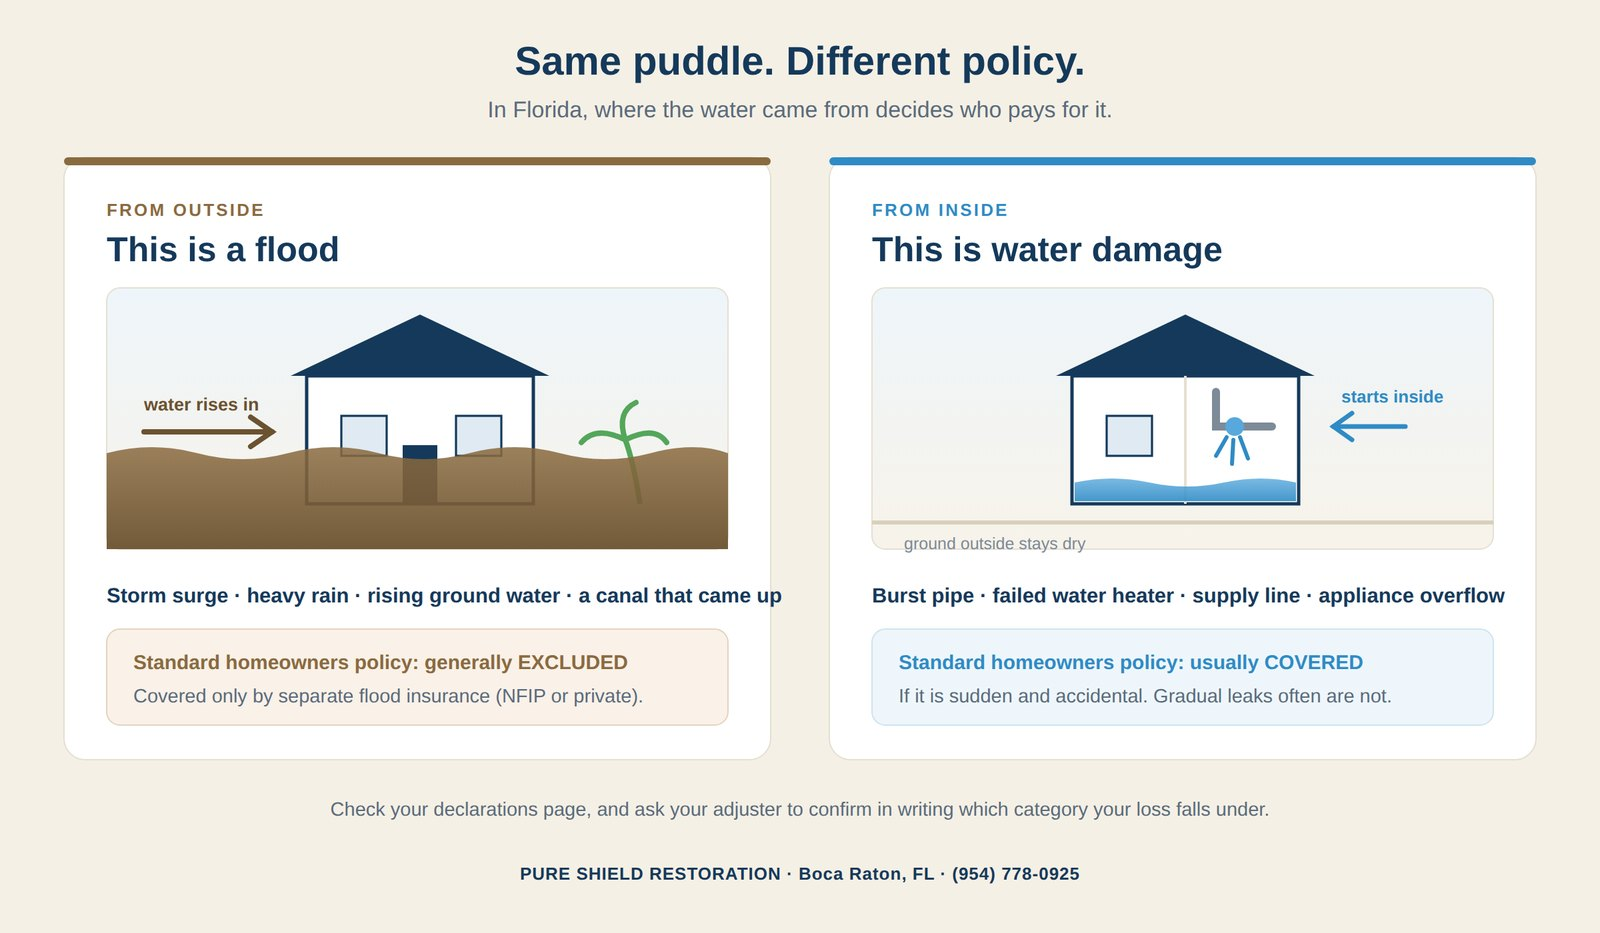
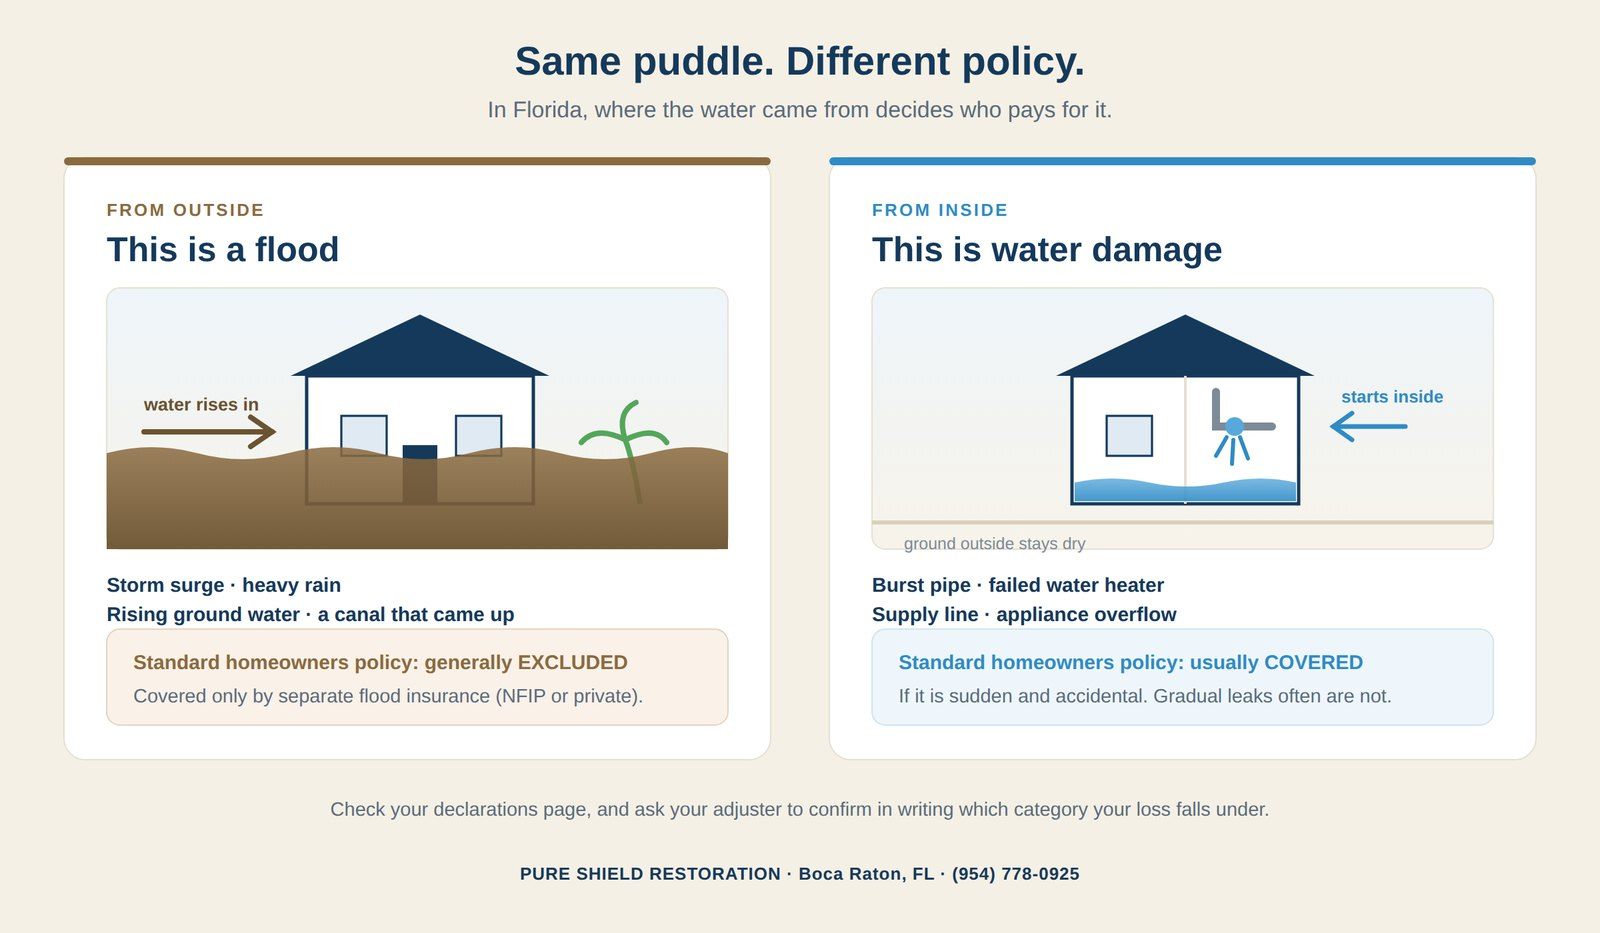
Mobile nav, tag taxonomy, keyword-bearing headers, diagram fix

Changed region(s): [[0.0625, 0.6217, 0.5, 0.6838], [0.5312, 0.6217, 0.9375, 0.6838]]

diff --git a/layouts/_default/baseof.html b/layouts/_default/baseof.html
@@ -12,6 +12,7 @@
 <title>{{ $pageTitle }}</title>
 <meta name="description" content="{{ $desc }}">
 <link rel="canonical" href="{{ .Permalink }}">
+{{ if and (eq .Kind "term") (eq .Data.Plural "tags") (lt (len .Pages) 3) }}<meta name="robots" content="noindex,follow">{{ end }}
 <link rel="icon" href="/favicon.ico" sizes="any">
 <link rel="icon" type="image/png" sizes="32x32" href="/favicon-32x32.png">
 <link rel="icon" type="image/png" sizes="16x16" href="/favicon-16x16.png">
@@ -92,6 +93,30 @@ img{max-width:100%;display:block}
 .header-call:hover{background:var(--water);transform:translateY(-2px)}
 .header-call .dot{width:8px;height:8px;border-radius:50%;background:var(--green)}
 @media(max-width:900px){.nav{display:none}}
+/* ---- mobile navigation ---- */
+.navtoggle{display:none;margin-left:8px;width:44px;height:44px;align-items:center;justify-content:center;background:transparent;border:1.5px solid var(--border);border-radius:11px;color:var(--navy);cursor:pointer;flex:none;padding:0}
+.navtoggle .bars{display:block;width:20px;height:2px;background:currentColor;border-radius:2px;position:relative;transition:background .2s}
+.navtoggle .bars::before,.navtoggle .bars::after{content:"";position:absolute;left:0;width:20px;height:2px;background:currentColor;border-radius:2px;transition:transform .22s,top .22s}
+.navtoggle .bars::before{top:-6px}
+.navtoggle .bars::after{top:6px}
+.navtoggle[aria-expanded="true"] .bars{background:transparent}
+.navtoggle[aria-expanded="true"] .bars::before{top:0;transform:rotate(45deg)}
+.navtoggle[aria-expanded="true"] .bars::after{top:0;transform:rotate(-45deg)}
+.mobilenav{position:fixed;inset:0;z-index:70;background:var(--cream);overflow-y:auto;opacity:0;visibility:hidden;transition:opacity .22s ease,visibility .22s ease;-webkit-overflow-scrolling:touch}
+.mobilenav.open{opacity:1;visibility:visible}
+.mn-head{display:flex;align-items:center;gap:12px;height:74px;padding:0 20px;border-bottom:1px solid var(--border);position:sticky;top:0;background:var(--cream)}
+.mn-head .shield{height:36px;width:auto}
+.mn-head b{font-family:var(--display);font-weight:800;color:var(--navy);letter-spacing:.04em;font-size:16px}
+.mn-close{margin-left:auto;width:44px;height:44px;border:1.5px solid var(--border);background:transparent;border-radius:11px;color:var(--navy);font-size:22px;line-height:1;cursor:pointer}
+.mn-body{padding:8px 20px 130px}
+.mn-body h4{font-family:var(--display);font-size:11.5px;letter-spacing:.14em;text-transform:uppercase;color:var(--soft);margin:24px 0 4px}
+.mn-body a{display:block;padding:13px 2px;font-family:var(--display);font-weight:600;font-size:17px;color:var(--navy);border-bottom:1px solid var(--border)}
+.mn-body a.sub{font-weight:500;font-size:15.5px;color:var(--muted);padding-left:14px}
+.mn-cta{display:grid;gap:10px;margin-top:26px}
+.mn-cta .btn{width:100%}
+body.navopen{overflow:hidden}
+@media(max-width:900px){.navtoggle{display:inline-flex}.header .container{gap:12px}}
+@media(min-width:901px){.mobilenav{display:none}}
 
 /* hero */
 .hero{position:relative;background:linear-gradient(180deg,#fbf8f1 0%,var(--cream) 60%);padding:78px 0 120px;overflow:hidden}
@@ -254,7 +279,7 @@ img{max-width:100%;display:block}
 /* footer */
 .footer{background:#0c2238;color:#b9c8d6}
 .footer .container{padding:60px 24px 30px}
-.footer-grid{display:grid;grid-template-columns:1.5fr 1fr 1fr;gap:40px}
+.footer-grid{display:grid;grid-template-columns:1.4fr 1fr 1fr 1fr;gap:36px}
 .footer-mark{display:flex;align-items:center;gap:11px;margin-bottom:14px}
 .footer-mark .shield{width:30px;height:34px;color:#fff}
 .footer-mark b{font-family:var(--display);font-weight:800;color:#fff;letter-spacing:.04em;font-size:17px}
@@ -422,8 +447,47 @@ document.addEventListener('click', function(e){
         <a href="/#faq">FAQ</a>
       </nav>
     <a href="tel:9547780925" class="header-call"><span class="dot"></span> (954) 778-0925</a>
+    <button class="navtoggle" type="button" aria-label="Open menu" aria-expanded="false" aria-controls="mobilenav"><span class="bars"></span></button>
   </div>
 </header>
+
+<div class="mobilenav" id="mobilenav">
+  <div class="mn-head">
+    <img class="shield" src="/images/shield-mark.png" alt="">
+    <b>PURE SHIELD</b>
+    <button class="mn-close" type="button" aria-label="Close menu">&times;</button>
+  </div>
+  <div class="mn-body">
+    <h4>Services</h4>
+    <a href="/services/">All services</a>
+    <a class="sub" href="/services/mold-remediation/">Mold Remediation</a>
+    <a class="sub" href="/services/water-damage-restoration/">Flood &amp; Water Damage Restoration</a>
+    <a class="sub" href="/services/structural-drying/">Structural Drying</a>
+    <a class="sub" href="/services/emergency-water-extraction/">Emergency Water Extraction</a>
+
+    <h4>Service areas</h4>
+    <a href="/areas/">All areas</a>
+    <a class="sub" href="/areas/boca-raton/">Boca Raton</a>
+    <a class="sub" href="/areas/delray-beach/">Delray Beach</a>
+    <a class="sub" href="/areas/boynton-beach/">Boynton Beach</a>
+    <a class="sub" href="/areas/deerfield-beach/">Deerfield Beach</a>
+    <a class="sub" href="/areas/pompano-beach/">Pompano Beach</a>
+    <a class="sub" href="/areas/coral-springs/">Coral Springs</a>
+    <a class="sub" href="/areas/margate/">Margate</a>
+
+    <h4>More</h4>
+    <a href="/work/">Our Work</a>
+    <a href="/blog/">Restoration Advice</a>
+    <a href="/#why">Why Us</a>
+    <a href="/#reviews">Reviews</a>
+    <a href="/#faq">FAQ</a>
+
+    <div class="mn-cta">
+      <a href="tel:9547780925" class="btn btn-primary"><span class="live"></span> Call (954) 778-0925</a>
+      <a href="/#contact" class="btn btn-ghost">Get a free inspection</a>
+    </div>
+  </div>
+</div>
 {{ block "main" . }}{{ end }}
 <!-- footer -->
 <footer class="footer">
@@ -444,7 +508,14 @@ document.addEventListener('click', function(e){
         <a href="/services/structural-drying/">Structural Drying</a>
         <a href="/services/emergency-water-extraction/">Emergency Extraction</a>
         <a href="/#services">Leak &amp; Moisture Mapping</a>
+      </div>
+      <div class="footer-col">
+        <h4>Explore</h4>
+        <a href="/areas/">Service Areas</a>
+        <a href="/work/">Our Work</a>
         <a href="/blog/">Restoration Advice</a>
+        <a href="/#why">Why Us</a>
+        <a href="/#faq">FAQ</a>
       </div>
       <div class="footer-col">
         <h4>Contact</h4>
@@ -464,6 +535,24 @@ document.addEventListener('click', function(e){
 <a class="mobile-call" href="tel:9547780925"><svg viewBox="0 0 24 24" fill="none" stroke="currentColor" stroke-width="2"><path d="M5 4h4l2 5-3 2a12 12 0 0 0 5 5l2-3 5 2v4a2 2 0 0 1-2 2A16 16 0 0 1 3 6a2 2 0 0 1 2-2Z"/></svg> Call (954) 778-0925</a>
 
 <script>
+(function(){
+  var btn=document.querySelector('.navtoggle'),
+      panel=document.getElementById('mobilenav'),
+      closeBtn=panel && panel.querySelector('.mn-close');
+  if(!btn||!panel) return;
+  function setOpen(open){
+    btn.setAttribute('aria-expanded', open ? 'true' : 'false');
+    btn.setAttribute('aria-label', open ? 'Close menu' : 'Open menu');
+    panel.classList.toggle('open', open);
+    document.body.classList.toggle('navopen', open);
+    if(open){ (closeBtn||panel).focus({preventScroll:true}); } else { btn.focus({preventScroll:true}); }
+  }
+  btn.addEventListener('click', function(){ setOpen(btn.getAttribute('aria-expanded') !== 'true'); });
+  if(closeBtn) closeBtn.addEventListener('click', function(){ setOpen(false); });
+  panel.addEventListener('click', function(e){ if(e.target.closest('a')) setOpen(false); });
+  document.addEventListener('keydown', function(e){ if(e.key === 'Escape' && panel.classList.contains('open')) setOpen(false); });
+  window.addEventListener('resize', function(){ if(window.innerWidth > 900 && panel.classList.contains('open')) setOpen(false); });
+})();
 (function(){
   var imgs=document.querySelectorAll('.hero-photo img');
   if(imgs.length>1){var i=0;setInterval(function(){imgs[i].classList.remove('is-active');i=(i+1)%imgs.length;imgs[i].classList.add('is-active');},6000);}

diff --git a/layouts/blog/single.html b/layouts/blog/single.html
@@ -6,7 +6,7 @@
     {{ with .Params.lead }}<p class="lede" style="margin-top:16px;max-width:740px;color:var(--muted);font-size:18px">{{ . }}</p>{{ end }}
     <div class="cs-meta">
       <span class="cs-tag">{{ .Date.Format "January 2, 2006" }}</span>
-      {{ range .Params.tags }}<span class="cs-tag">{{ . }}</span>{{ end }}
+      {{ range .Params.tags }}<a class="cs-tag" href="{{ (printf "/tags/%s/" (urlize .)) }}">{{ . }}</a>{{ end }}
     </div>
   </div>
 </section>
@@ -14,7 +14,7 @@
 {{ with .Params.heroimg }}
 <section style="padding:0 0 8px;background:var(--cream)">
   <div class="container">
-    <img src="{{ . }}" alt="{{ $.Title }}" style="width:100%;height:auto;border-radius:var(--radius);border:1px solid var(--border);box-shadow:var(--shadow)">
+    <img src="{{ . }}" alt="{{ with $.Params.heroalt }}{{ . }}{{ else }}{{ $.Title }}{{ end }}" style="width:100%;height:auto;border-radius:var(--radius);border:1px solid var(--border);box-shadow:var(--shadow)">
   </div>
 </section>
 {{ end }}

diff --git a/layouts/tags/term.html b/layouts/tags/term.html
@@ -1,0 +1,25 @@
+{{ define "main" }}
+<section class="page-hero">
+  <div class="container">
+    <span class="eyebrow">Topic</span>
+    <h1>{{ .Title }}</h1>
+    <p class="lede" style="margin-top:12px;color:var(--muted)">Articles on {{ lower .Title }} from Pure Shield Restoration.</p>
+  </div>
+</section>
+<section class="page-body">
+  <div class="container">
+    <div class="case-grid">
+      {{ range .Pages.ByDate.Reverse }}
+      <a class="case-card" href="{{ .RelPermalink }}">
+        <div class="cc-body">
+          <span class="cc-tag">{{ .Date.Format "Jan 2, 2006" }}</span>
+          <h3>{{ .Title }}</h3>
+          <p>{{ with .Params.lead }}{{ . | truncate 150 }}{{ else }}{{ .Summary | plainify | truncate 150 }}{{ end }}</p>
+        </div>
+      </a>
+      {{ end }}
+    </div>
+  </div>
+</section>
+{{ partial "post-cta.html" . }}
+{{ end }}

diff --git a/layouts/tags/list.html b/layouts/tags/list.html
@@ -1,0 +1,18 @@
+{{ define "main" }}
+<section class="page-hero">
+  <div class="container">
+    <span class="eyebrow">Topics</span>
+    <h1>All topics</h1>
+  </div>
+</section>
+<section class="page-body">
+  <div class="container">
+    <div class="chips" style="gap:12px">
+      {{ range .Data.Terms.Alphabetical }}
+      <a class="cs-tag" href="{{ .Page.RelPermalink }}">{{ .Page.Title }} ({{ .Count }})</a>
+      {{ end }}
+    </div>
+  </div>
+</section>
+{{ partial "post-cta.html" . }}
+{{ end }}

diff --git a/content/blog/flood-vs-water-damage-florida-insurance-cost.md b/content/blog/flood-vs-water-damage-florida-insurance-cost.md
@@ -1,10 +1,11 @@
 ---
-title: "Flood Damage vs. Water Damage in Florida: What Insurance Covers and What It Costs"
-seotitle: "Flood vs Water Damage in Florida: Insurance & Costs Explained | Pure Shield"
-description: "Why homeowners insurance usually excludes flood damage in Florida, what flood restoration actually costs, and how to tell the two kinds of water apart."
+title: "Flood Restoration vs. Water Damage in Florida: What Insurance Covers and What It Costs"
+seotitle: "Flood Restoration vs Water Damage in Florida: Insurance & Costs | Pure Shield"
+description: "When you need flood restoration instead of a water damage cleanup, why Florida homeowners policies exclude flood, and what the work actually costs."
 date: 2026-07-31
 heroimg: "/images/flood-vs-water-damage-coverage.jpg"
-lead: "If water came into your house from outside, your homeowners policy probably does not cover it. Here is what that means, what the work actually involves, and what drives the price."
+heroalt: "Side by side diagram: water entering a house from outside is a flood and is excluded by standard Florida homeowners insurance, while a burst pipe inside is water damage and is usually covered"
+lead: "If water came into your house from outside, you need flood restoration, and your homeowners policy probably does not cover it. Here is what that means, what the work involves, and what drives the price."
 summary: "Flood water and water damage are two different things in Florida, and the difference decides who pays. A plain explanation of coverage, cost drivers, and how to choose a restoration company."
 tags: ["flood-restoration", "water-damage", "insurance", "south-florida"]
 categories: ["water-damage"]
@@ -23,13 +24,13 @@ faqs:
     a: "Ask three things. Are they licensed and insured in Florida, and will they show you the license number. Will they give you moisture readings and documentation you can hand to an adjuster. And will they tell you plainly what does not need doing. Be careful with anyone who both tests for mold and remediates it on the same job, because Florida law separates those roles."
 ---
 
-Water on the floor is water on the floor. But where it came from decides who pays for it, and most South Florida homeowners find that out at the worst possible moment.
+Water on the floor is water on the floor. But where it came from decides who pays for it, and whether what you need is flood restoration or a standard water damage cleanup. Most South Florida homeowners find that out at the worst possible moment.
 
-## The short answer
+## The short answer: flood water and water damage are not the same thing
 
-**Flood water and water damage are two different things on your insurance policy.** A burst pipe or a failed water heater is sudden internal water, and a standard homeowners policy usually covers it. Water that rises from outside, from storm surge, heavy rain, or a canal that came up, is a flood, and standard homeowners policies generally exclude it. Flood is covered separately through the National Flood Insurance Program or a private flood policy. The cleanup work looks similar from the driveway, but the claim goes to a completely different place.
+**Flood water and water damage are two different things on your insurance policy.** A burst pipe or a failed water heater is sudden internal water, and a standard homeowners policy usually covers it. Water that rises from outside, from storm surge, heavy rain, or a canal that came up, is a flood, and standard homeowners policies generally exclude it. Flood is covered separately through the National Flood Insurance Program or a private flood policy. The cleanup work looks similar from the driveway, but the claim goes to a completely different place, and flood restoration is a different job from drying out a burst pipe.
 
-## Why outside water is handled differently
+## Why flood restoration is different from a water damage cleanup
 
 **Flood water is treated as contaminated from the moment it enters, no matter how clear it looks.** The industry standard that restoration companies work to, IICRC S500, sorts water into three categories. Category 1 is clean water from a supply line. Category 2 has some contamination, like a washing machine overflow. Category 3 is grossly contaminated, and ground surface water and storm surge land there by definition, because they pick up whatever is in the street, the soil, and the septic and sewer systems on the way to your house.
 
@@ -46,7 +47,7 @@ That classification is not a technicality. It changes the work:
 
 If a company treats storm surge like a clean water loss and just runs fans, you will be calling someone else in three weeks about mold.
 
-## What actually drives the cost
+## What flood restoration costs in South Florida, and what drives the price
 
 **Nobody can quote a flood job honestly without seeing it, and the size of the puddle is not the main variable.** Four things move the number more than anything else:
 
@@ -61,13 +62,13 @@ If a company treats storm surge like a clean water loss and just runs fans, you 
 
 Be wary of a firm price quoted over the phone before anyone has taken a reading. That number is either padded to cover the unknown or it is going to grow later.
 
-## The Florida licensing thing worth knowing
+## Florida law separates mold assessment from mold remediation
 
 **In Florida, the company that tests your home for mold generally cannot be the company that remediates it.** Under Florida Statute 468.8419, a licensed mold assessor may not perform remediation on a structure they assessed within the last twelve months, and a remediator may not perform an assessment on a structure they remediated in that window. The point is to remove the incentive to find more mold than is actually there.
 
 It is worth knowing because it gives you a clean question to ask any company that shows up: which one are you. Pure Shield is a licensed mold remediator, license number MRSR5407. We do not do our own clearance testing, so when a job needs independent verification you get it from a third party with no stake in how big the job is.
 
-## What to ask before you hire anyone
+## How to choose a flood restoration company
 
 ![Restoration technician in a full protective suit and respirator working in a contaminated crawlspace](/images/category-3-water-protective-equipment.jpg "Category 3 water is why this is not a shop-vac job.")
 
@@ -75,7 +76,7 @@ It is worth knowing because it gives you a clean question to ask any company tha
 
 If you are dealing with an active leak or interior water rather than outside flooding, the coverage question flips and the work changes with it. Our [flood and water damage restoration](/services/water-damage-restoration/) page walks through how we handle both. If mold has already taken hold, that is [mold remediation](/services/mold-remediation/) work, which Florida licenses separately. Homeowners in [Boca Raton](/areas/boca-raton/) can see recent jobs we have documented.
 
-## If you have water in the house right now
+## What to do first if you have flood water in your house
 
 Shut off the source if you can reach it safely, and stay out of standing water where electricity may be live. Photograph everything before anything moves, because that is what your adjuster wants. Then call someone.
 
